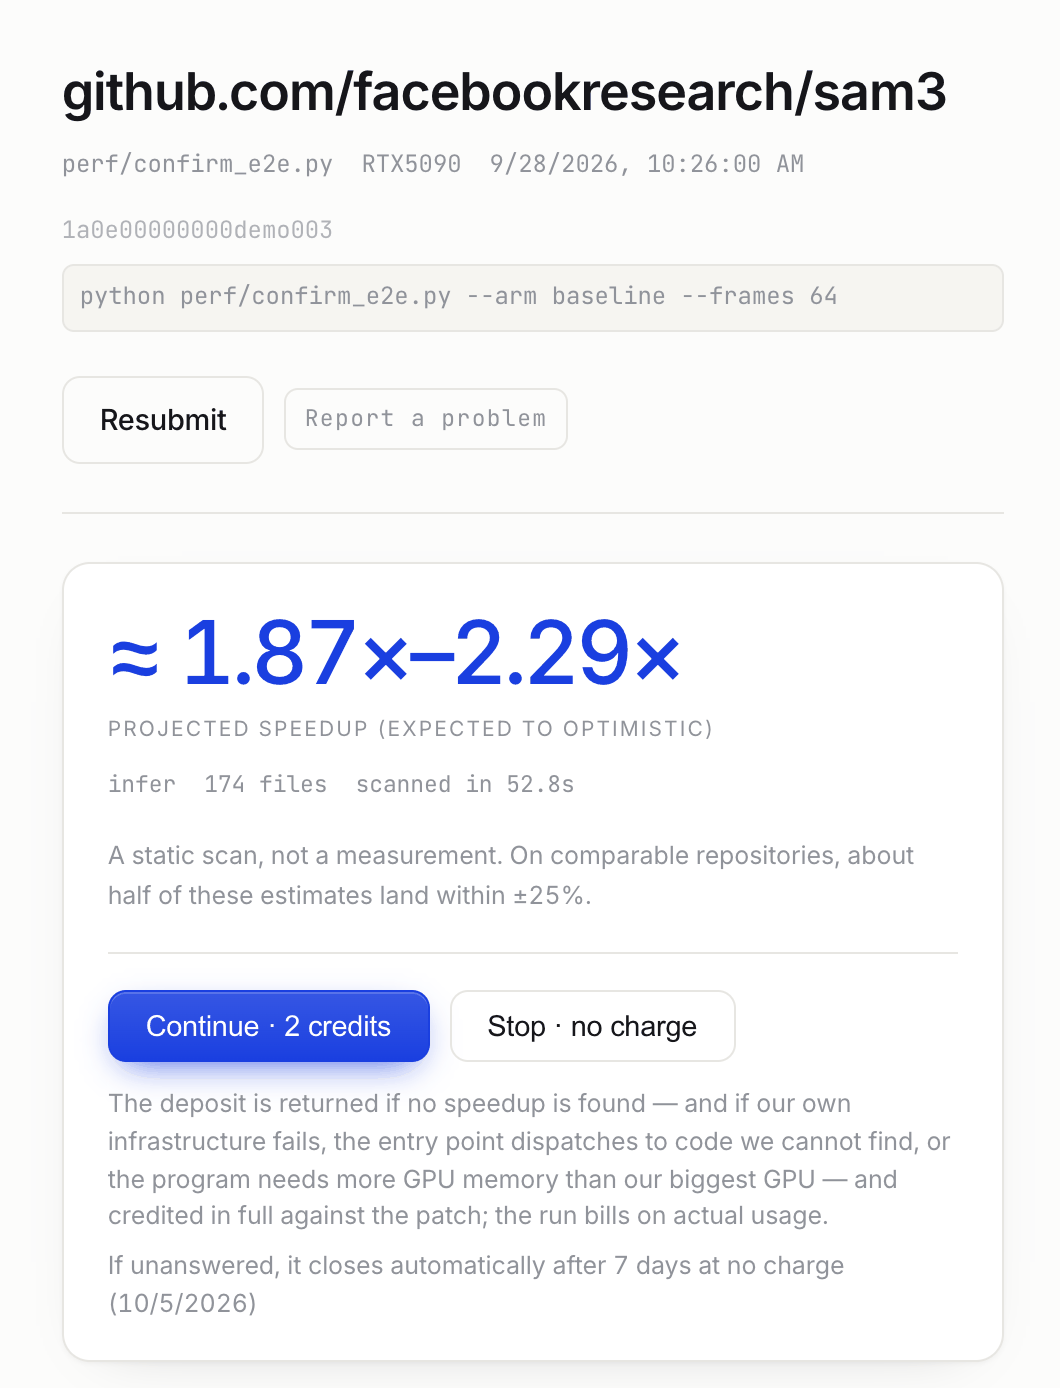
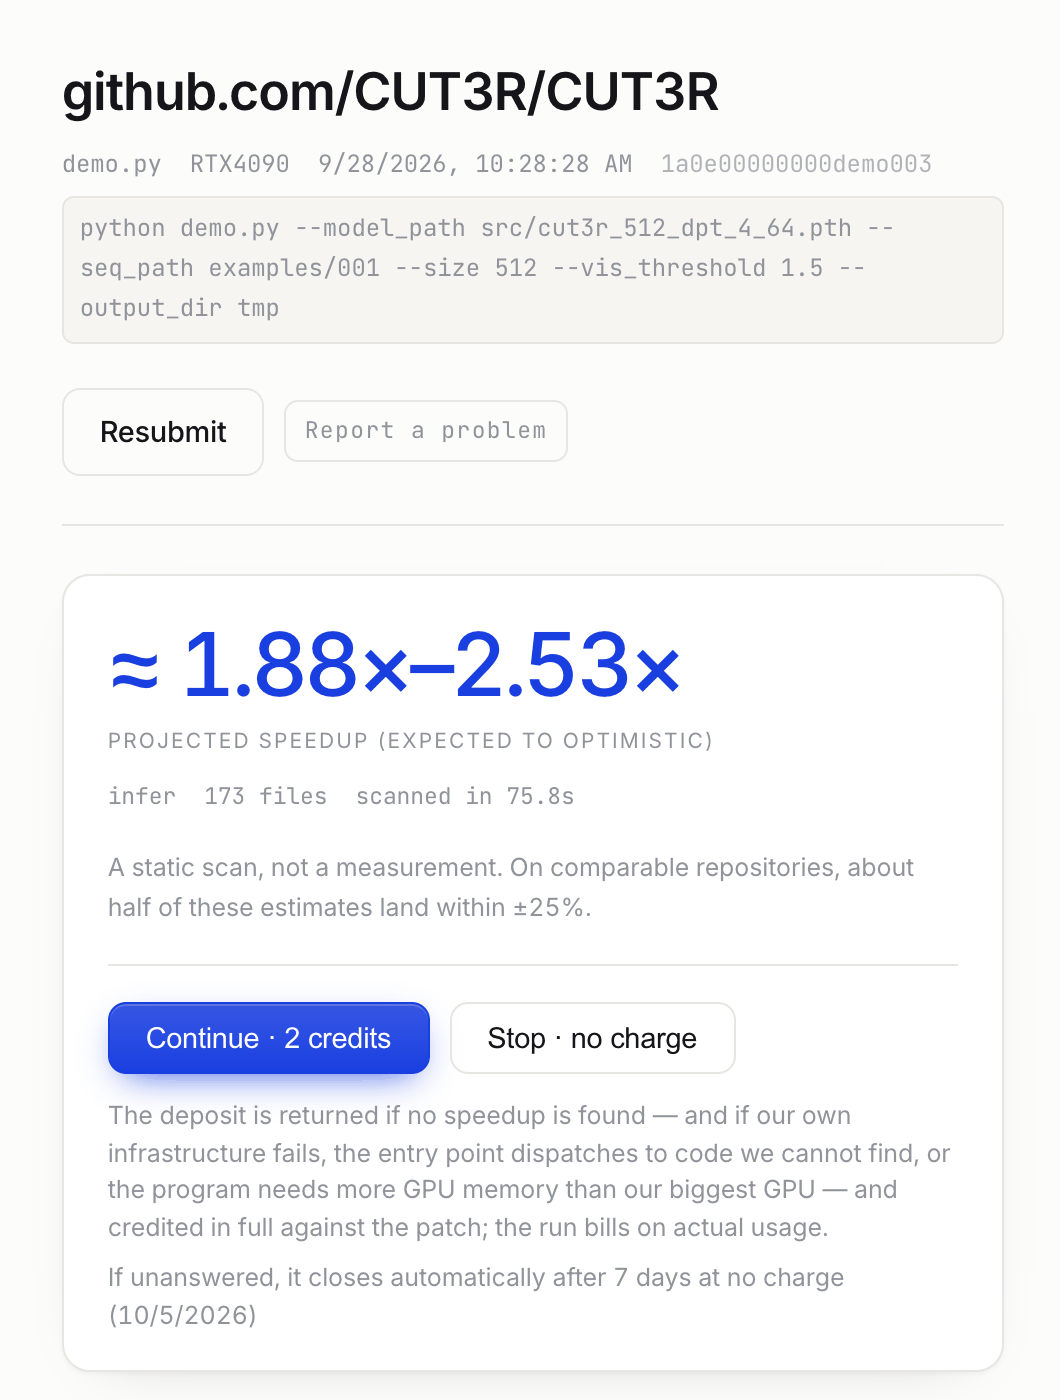
Profile: estimate frame shows a customer-style job (CUT3R)

diff --git a/profile/README.md b/profile/README.md
@@ -30,7 +30,7 @@
   </tr>
 </table>
 
-<sub>Screenshots use demo data (SAM 2's numbers are its real published result); no customer account is shown.</sub>
+<sub>Screenshots use demo data: the estimate is CUT3R's real scan and the result is SAM 2's real published run; no customer account is shown.</sub>
 
 **Results so far** — 56 open-source projects, 59 measurements, median **2.48x** end to end.
 Each fork is the upstream project plus one commit: the patch, and a README with the numbers and how to reproduce them.
